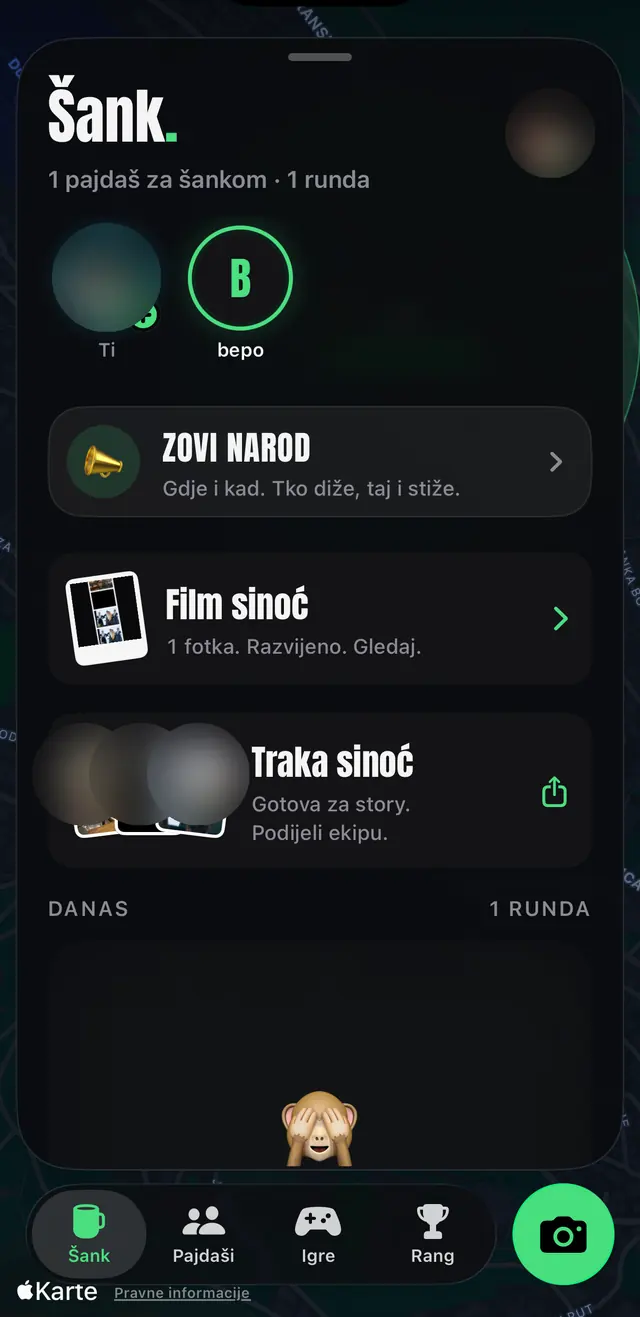
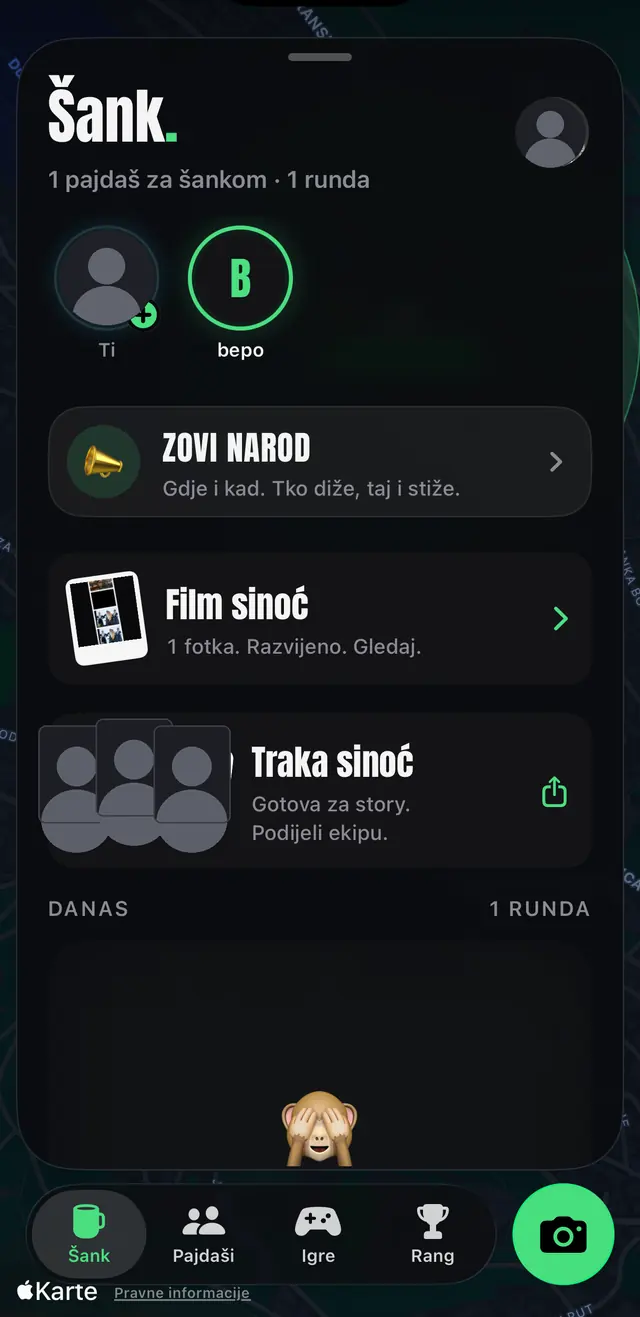
Press kit /press, silhouettes instead of faces in screens, App Store QR on desktop after launch

Changed region(s): [[0.0625, 0.5292, 0.4062, 0.6538], [0.0625, 0.1868, 0.25, 0.2491], [0.7812, 0.0623, 0.9375, 0.1557]]

diff --git a/app/press/page.jsx b/app/press/page.jsx
@@ -1,0 +1,78 @@
+import Link from "next/link";
+import { KriglaSays } from "@/components/brand";
+import { FEATURES } from "@/lib/features";
+import { INSTAGRAM } from "@/lib/launch";
+
+export const metadata = {
+  title: "Press. LAKAT",
+  description: "LAKAT za medije: opis, ekrani, najava i kontakt.",
+};
+
+// Press kit (Petar n7): sve što novinar ili influencer treba na jednom mjestu. Samo potvrđene činjenice.
+export default function Press() {
+  return (
+    <main className="mx-auto grid max-w-5xl gap-14 px-5 py-14 md:py-20">
+      <header className="grid gap-5">
+        <Link href="/" className="font-display text-[22px] leading-none">
+          LAKAT<span className="text-accent">.</span>
+        </Link>
+        <h1 className="font-display text-[clamp(52px,13vw,104px)] leading-[0.92] uppercase">
+          Press<span className="text-accent">.</span>
+        </h1>
+        <KriglaSays size={56}>Pišeš o nama? Ovdje je sve. Ako fali nešto, javi se.</KriglaSays>
+      </header>
+
+      <section className="grid gap-4 md:grid-cols-[1fr_1.2fr] md:gap-10">
+        <h2 className="font-display text-[34px] leading-none uppercase">Ukratko</h2>
+        <div className="grid gap-3 text-[16px] text-soft">
+          <p>
+            LAKAT je hrvatska društvena aplikacija za izlaske s ekipom. Na karti vidiš tko je od pajdaša vani, objaviš rundu, a Krigla,
+            tvoj lik u aplikaciji, daje zadatke i pamti večeri.
+          </p>
+          <p>Izlazi 1. 12. 2026. u 12:00 na iPhoneu. Android stiže poslije.</p>
+          <p>Tebe vide samo pajdaši koje prihvatiš. Javno objavljuješ samo kad ti to uključiš.</p>
+        </div>
+      </section>
+
+      <section className="grid gap-5">
+        <h2 className="font-display text-[34px] leading-none uppercase">Funkcije</h2>
+        <div className="grid grid-cols-2 gap-3 md:grid-cols-3">
+          {FEATURES.map((f) => (
+            <a key={f.id} href={`/img/scr-${f.id}.webp`} download className="grid content-start gap-2 rounded-2xl border border-line bg-surface p-3 transition-colors hover:border-[#3f3f46]">
+              <img src={`/img/scr-${f.id}.webp`} alt={f.name} width={640} height={1317} loading="lazy" className="aspect-[9/16] w-full rounded-xl object-cover object-top" />
+              <b className="font-display text-[20px] leading-none font-normal uppercase">{f.name}</b>
+              <span className="text-[13px] text-muted">{f.line}</span>
+            </a>
+          ))}
+        </div>
+        <p className="text-[13px] text-muted">Ekrani su iz verzije u izradi. Dizajn se do 1. 12. još može promijeniti.</p>
+      </section>
+
+      <section className="grid gap-4 md:grid-cols-2">
+        <a href="/video/najava.mp4" download className="grid gap-2 rounded-2xl border border-line bg-surface p-5 hover:border-[#3f3f46]">
+          <b className="font-display text-[24px] leading-none font-normal uppercase">Najava · 0:49</b>
+          <span className="text-[14px] text-muted">Video 9:16, MP4. Preuzmi.</span>
+        </a>
+        <a href="/img/krigla-lik.webp" download className="grid grid-cols-[64px_1fr] items-center gap-4 rounded-2xl border border-line bg-surface p-5 hover:border-[#3f3f46]">
+          <img src="/img/krigla-lik.webp" alt="Krigla" width={64} height={64} className="size-16 object-contain" />
+          <span className="grid gap-1">
+            <b className="font-display text-[24px] leading-none font-normal uppercase">Krigla</b>
+            <span className="text-[14px] text-muted">Maskota, WebP s prozirnom pozadinom.</span>
+          </span>
+        </a>
+      </section>
+
+      <section className="grid gap-3">
+        <h2 className="font-display text-[34px] leading-none uppercase">Kontakt</h2>
+        <div className="flex flex-wrap gap-2">
+          <a href="mailto:support@laktarenje.com" className="inline-flex min-h-[48px] items-center rounded-full border border-line px-5 text-[15px] font-semibold">
+            support@laktarenje.com
+          </a>
+          <a href={INSTAGRAM} target="_blank" rel="noopener" className="ig-btn inline-flex min-h-[48px] items-center rounded-full px-5 text-[15px] font-bold text-white">
+            @lakat_app
+          </a>
+        </div>
+      </section>
+    </main>
+  );
+}

diff --git a/components/hero.jsx b/components/hero.jsx
@@ -3,6 +3,7 @@ import { HeroBg } from "./hero-bg";
 import { HuntKrigla } from "./hunt";
 import { SoundToggle } from "./sound-toggle";
 import { StoreButtons } from "./store";
+import { StoreQR } from "./store-qr";
 import { TimerTalk } from "./timer-talk";
 import { TiltPhone } from "./tilt-phone";
 
@@ -50,7 +51,10 @@ export function Hero({ live = false }) {
 
         <div className="intro-3 grid gap-4 [@media(max-height:700px)]:gap-2.5 md:col-start-1 md:row-start-2 md:self-start md:justify-self-start md:justify-items-start">
           {live ? (
-            <StoreButtons />
+            <>
+              <StoreButtons />
+              <StoreQR />
+            </>
           ) : (
             <TimerTalk initial={initial} className="[--cw:38px] [@media(max-height:700px)]:[--cw:30px] md:justify-start md:[--cw:46px]" />
           )}

diff --git a/components/store-qr.jsx b/components/store-qr.jsx
@@ -1,0 +1,16 @@
+import QRCode from "qrcode";
+import { storeLink } from "@/lib/launch";
+
+// Nakon lansiranja na desktopu (Petar q5): skeniraš mobitelom i ideš ravno na App Store.
+// Crta se na serveru kao SVG, bez JS-a u pregledniku.
+export async function StoreQR() {
+  const url = storeLink("web-qr");
+  if (!url) return null;
+  const svg = await QRCode.toString(url, { type: "svg", margin: 1, color: { dark: "#09090B", light: "#F4F4F5" } });
+  return (
+    <div className="hidden items-center gap-4 md:flex">
+      <div className="size-[112px] overflow-hidden rounded-xl bg-fg p-1.5" dangerouslySetInnerHTML={{ __html: svg }} aria-label="QR kod za App Store" role="img" />
+      <p className="max-w-[18ch] text-[14px] text-muted">Skeniraj mobitelom i skini LAKAT.</p>
+    </div>
+  );
+}

diff --git a/components/sections.jsx b/components/sections.jsx
@@ -210,6 +210,7 @@ export function Footer() {
           <nav className="flex gap-5">
             <a className="py-2 hover:text-fg" href="https://laktarenje.com/privatnost">Privatnost</a>
             <a className="py-2 hover:text-fg" href="https://laktarenje.com/uvjeti">Uvjeti</a>
+            <a className="py-2 hover:text-fg" href="/press">Press</a>
           </nav>
         </div>
       </div>
